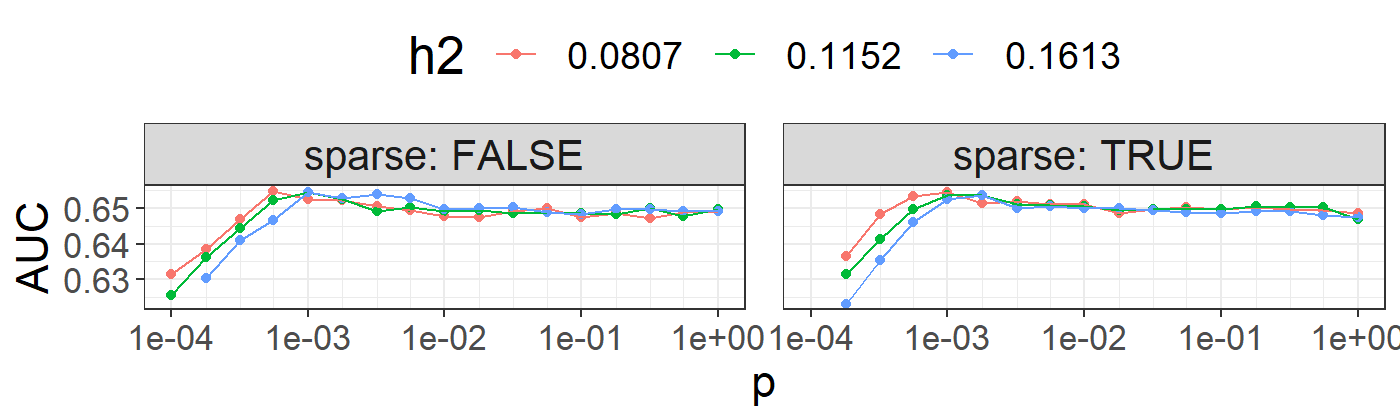
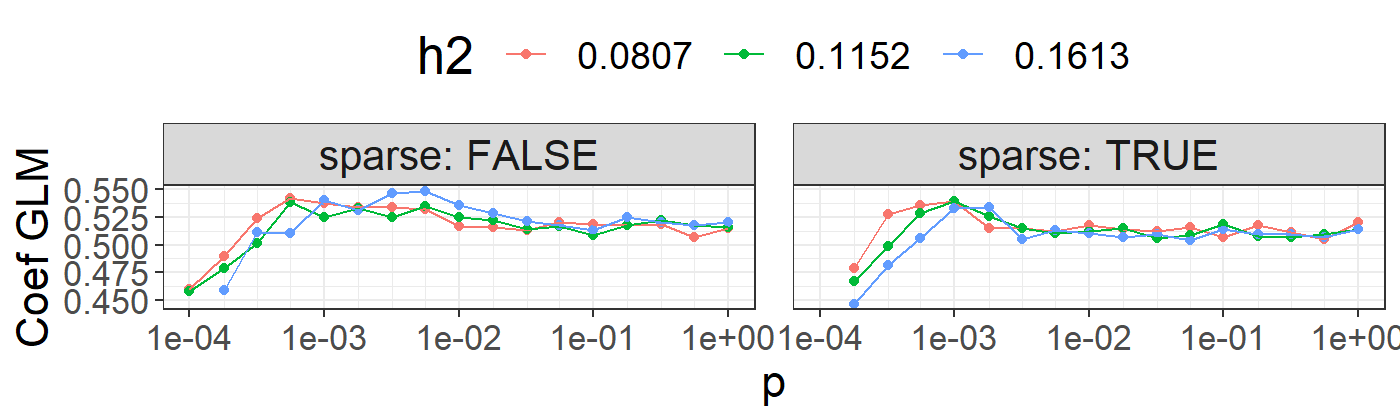
use coef GLM

diff --git a/docs/articles/LDpred2.html b/docs/articles/LDpred2.html
@@ -334,54 +334,59 @@
 <div class="sourceCode" id="cb32"><html><body><pre class="r"><span class="co"># takes several minutes if you do not have many cores</span>
 <span class="no">beta_grid</span> <span class="kw">&lt;-</span> <span class="fu"><a href="../reference/LDpred2.html">snp_ldpred2_grid</a></span>(<span class="no">corr</span>, <span class="no">df_beta</span>[<span class="no">ind.chr</span>, ], <span class="no">params</span>, <span class="kw">ncores</span> <span class="kw">=</span> <span class="no">NCORES</span>)</pre></body></html></div>
 <div class="sourceCode" id="cb33"><html><body><pre class="r"><span class="no">pred_grid</span> <span class="kw">&lt;-</span> <span class="fu">big_prodMat</span>(<span class="no">G</span>, <span class="no">beta_grid</span>, <span class="kw">ind.col</span> <span class="kw">=</span> <span class="no">ind.chr2</span>)
-<span class="no">params</span>$<span class="no">auc</span> <span class="kw">&lt;-</span> <span class="fu"><a href="https://rdrr.io/r/base/apply.html">apply</a></span>(<span class="no">pred_grid</span>[<span class="no">ind.val</span>, ], <span class="fl">2</span>, <span class="no">AUC</span>, <span class="kw">target</span> <span class="kw">=</span> <span class="no">y</span>[<span class="no">ind.val</span>])</pre></body></html></div>
-<div class="sourceCode" id="cb34"><html><body><pre class="r"><span class="fu"><a href="https://rdrr.io/r/base/library.html">library</a></span>(<span class="no">ggplot2</span>)
-<span class="fu"><a href="https://ggplot2.tidyverse.org/reference/ggplot.html">ggplot</a></span>(<span class="fu"><a href="https://rdrr.io/r/base/subset.html">subset</a></span>(<span class="no">params</span>, <span class="no">auc</span> <span class="kw">&gt;</span> <span class="fl">0.5</span>),
-       <span class="fu"><a href="https://ggplot2.tidyverse.org/reference/aes.html">aes</a></span>(<span class="kw">x</span> <span class="kw">=</span> <span class="no">p</span>, <span class="kw">y</span> <span class="kw">=</span> <span class="no">auc</span>, <span class="kw">color</span> <span class="kw">=</span> <span class="fu"><a href="https://rdrr.io/r/base/factor.html">as.factor</a></span>(<span class="no">h2</span>))) +
+<span class="no">params</span>$<span class="no">mad</span> <span class="kw">&lt;-</span> <span class="fu"><a href="https://rdrr.io/r/base/apply.html">apply</a></span>(<span class="no">pred_grid</span>[<span class="no">ind.val</span>, ], <span class="fl">2</span>, <span class="no">mad</span>)
+<span class="no">params</span>$<span class="no">coef</span> <span class="kw">&lt;-</span> <span class="fu"><a href="https://rdrr.io/r/base/apply.html">apply</a></span>(<span class="no">pred_grid</span>[<span class="no">ind.val</span>, ], <span class="fl">2</span>, <span class="kw">function</span>(<span class="no">x</span>) {
+  <span class="fu"><a href="https://rdrr.io/r/stats/glm.html">glm</a></span>(<span class="no">y</span>[<span class="no">ind.val</span>] ~ <span class="no">x</span>, <span class="kw">family</span> <span class="kw">=</span> <span class="st">"binomial"</span>)$<span class="no">coef</span>[<span class="fl">2</span>]
+})
+<span class="no">params</span>$<span class="no">auc_val</span>  <span class="kw">&lt;-</span> <span class="fu"><a href="https://rdrr.io/r/base/apply.html">apply</a></span>(<span class="no">pred_grid</span>[<span class="no">ind.val</span>, ],  <span class="fl">2</span>, <span class="no">AUC</span>, <span class="kw">target</span> <span class="kw">=</span> <span class="no">y</span>[<span class="no">ind.val</span>])
+<span class="no">params</span>$<span class="no">auc_test</span> <span class="kw">&lt;-</span> <span class="fu"><a href="https://rdrr.io/r/base/apply.html">apply</a></span>(<span class="no">pred_grid</span>[<span class="no">ind.test</span>, ], <span class="fl">2</span>, <span class="no">AUC</span>, <span class="kw">target</span> <span class="kw">=</span> <span class="no">y</span>[<span class="no">ind.test</span>])</pre></body></html></div>
+<div class="sourceCode" id="cb34"><html><body><pre class="r"><span class="fu"><a href="https://rdrr.io/r/base/library.html">library</a></span>(<span class="no">ggplot2</span>)</pre></body></html></div>
+<pre><code>## Warning: package 'ggplot2' was built under R version 3.6.3</code></pre>
+<div class="sourceCode" id="cb36"><html><body><pre class="r"><span class="fu"><a href="https://ggplot2.tidyverse.org/reference/ggplot.html">ggplot</a></span>(<span class="no">params</span>, <span class="fu"><a href="https://ggplot2.tidyverse.org/reference/aes.html">aes</a></span>(<span class="kw">x</span> <span class="kw">=</span> <span class="no">p</span>, <span class="kw">y</span> <span class="kw">=</span> <span class="no">coef</span> * <span class="no">mad</span>, <span class="kw">color</span> <span class="kw">=</span> <span class="fu"><a href="https://rdrr.io/r/base/factor.html">as.factor</a></span>(<span class="no">h2</span>))) +
   <span class="fu">theme_bigstatsr</span>() +
   <span class="fu"><a href="https://ggplot2.tidyverse.org/reference/geom_point.html">geom_point</a></span>() +
   <span class="fu"><a href="https://ggplot2.tidyverse.org/reference/geom_path.html">geom_line</a></span>() +
   <span class="fu"><a href="https://ggplot2.tidyverse.org/reference/scale_continuous.html">scale_x_log10</a></span>(<span class="kw">breaks</span> <span class="kw">=</span> <span class="fl">10</span>^(-<span class="fl">5</span>:<span class="fl">0</span>), <span class="kw">minor_breaks</span> <span class="kw">=</span> <span class="no">params</span>$<span class="no">p</span>) +
   <span class="fu"><a href="https://ggplot2.tidyverse.org/reference/facet_wrap.html">facet_wrap</a></span>(~ <span class="no">sparse</span>, <span class="kw">labeller</span> <span class="kw">=</span> <span class="no">label_both</span>) +
-  <span class="fu"><a href="https://ggplot2.tidyverse.org/reference/labs.html">labs</a></span>(<span class="kw">y</span> <span class="kw">=</span> <span class="st">"AUC"</span>, <span class="kw">color</span> <span class="kw">=</span> <span class="st">"h2"</span>) +
+  <span class="fu"><a href="https://ggplot2.tidyverse.org/reference/labs.html">labs</a></span>(<span class="kw">y</span> <span class="kw">=</span> <span class="st">"Coef GLM"</span>, <span class="kw">color</span> <span class="kw">=</span> <span class="st">"h2"</span>) +
   <span class="fu"><a href="https://ggplot2.tidyverse.org/reference/theme.html">theme</a></span>(<span class="kw">legend.position</span> <span class="kw">=</span> <span class="st">"top"</span>, <span class="kw">panel.spacing</span> <span class="kw">=</span> <span class="fu"><a href="https://ggplot2.tidyverse.org/reference/reexports.html">unit</a></span>(<span class="fl">1</span>, <span class="st">"lines"</span>))</pre></body></html></div>
+<pre><code>## Warning: Removed 4 rows containing missing values (geom_point).</code></pre>
+<pre><code>## Warning: Removed 1 row(s) containing missing values (geom_path).</code></pre>
 <p><img src="LDpred2_files/figure-html/unnamed-chunk-16-1.png" width="90%" style="display: block; margin: auto;"></p>
-<div class="sourceCode" id="cb35"><html><body><pre class="r"><span class="fu"><a href="https://rdrr.io/r/base/library.html">library</a></span>(<span class="no">dplyr</span>)
+<div class="sourceCode" id="cb39"><html><body><pre class="r"><span class="fu"><a href="https://rdrr.io/r/base/library.html">library</a></span>(<span class="no">dplyr</span>)
 <span class="no">params</span> <span class="kw">%&gt;%</span>
   <span class="fu"><a href="https://dplyr.tidyverse.org/reference/mutate.html">mutate</a></span>(<span class="kw">sparsity</span> <span class="kw">=</span> <span class="fu"><a href="https://rdrr.io/r/base/colSums.html">colMeans</a></span>(<span class="no">beta_grid</span> <span class="kw">==</span> <span class="fl">0</span>), <span class="kw">id</span> <span class="kw">=</span> <span class="fu"><a href="https://dplyr.tidyverse.org/reference/ranking.html">row_number</a></span>()) <span class="kw">%&gt;%</span>
-  <span class="fu"><a href="https://dplyr.tidyverse.org/reference/arrange.html">arrange</a></span>(<span class="fu"><a href="https://dplyr.tidyverse.org/reference/desc.html">desc</a></span>(<span class="no">auc</span>)) <span class="kw">%&gt;%</span>
-  <span class="fu"><a href="https://dplyr.tidyverse.org/reference/mutate_all.html">mutate_at</a></span>(<span class="fl">4</span>:<span class="fl">5</span>, <span class="no">round</span>, <span class="kw">digits</span> <span class="kw">=</span> <span class="fl">3</span>) <span class="kw">%&gt;%</span>
+  <span class="fu"><a href="https://dplyr.tidyverse.org/reference/arrange.html">arrange</a></span>(<span class="fu"><a href="https://dplyr.tidyverse.org/reference/desc.html">desc</a></span>(<span class="no">coef</span> * <span class="no">mad</span>)) <span class="kw">%&gt;%</span>
+  <span class="fu"><a href="https://dplyr.tidyverse.org/reference/mutate_all.html">mutate_at</a></span>(<span class="fl">4</span>:<span class="fl">8</span>, <span class="no">signif</span>, <span class="kw">digits</span> <span class="kw">=</span> <span class="fl">3</span>) <span class="kw">%&gt;%</span>
   <span class="fu"><a href="https://dplyr.tidyverse.org/reference/slice.html">slice</a></span>(<span class="fl">1</span>:<span class="fl">10</span>)</pre></body></html></div>
-<pre><code>##          p     h2 sparse   auc sparsity id
-## 1  0.00056 0.0807  FALSE 0.655    0.000  4
-## 2  0.00100 0.1152  FALSE 0.654    0.000 22
-## 3  0.00100 0.1613  FALSE 0.654    0.000 39
-## 4  0.00100 0.0807   TRUE 0.654    0.622 56
-## 5  0.00320 0.1613  FALSE 0.654    0.000 41
-## 6  0.00180 0.1613   TRUE 0.654    0.599 91
-## 7  0.00100 0.1152   TRUE 0.654    0.624 73
-## 8  0.00180 0.1152   TRUE 0.653    0.604 74
-## 9  0.00056 0.0807   TRUE 0.653    0.654 55
-## 10 0.00560 0.1613  FALSE 0.653    0.000 42</code></pre>
-<p>You can then choose the best one according to your preferred criterion (e.g. max AUC) and evaluate it in the test set.</p>
-<div class="sourceCode" id="cb37"><html><body><pre class="r"><span class="no">best_grid_nosp</span> <span class="kw">&lt;-</span> <span class="no">params</span> <span class="kw">%&gt;%</span>
+<pre><code>##          p     h2 sparse   mad coef auc_val auc_test sparsity id
+## 1  0.00560 0.1613  FALSE 0.329 1.67   0.653    0.667    0.000 42
+## 2  0.00320 0.1613  FALSE 0.328 1.66   0.654    0.669    0.000 41
+## 3  0.00056 0.0807  FALSE 0.167 3.25   0.655    0.667    0.000  4
+## 4  0.00100 0.1613  FALSE 0.321 1.68   0.654    0.667    0.000 39
+## 5  0.00100 0.0807   TRUE 0.144 3.75   0.654    0.674    0.622 56
+## 6  0.00100 0.1152   TRUE 0.209 2.58   0.654    0.672    0.624 73
+## 7  0.00056 0.1152  FALSE 0.232 2.32   0.652    0.667    0.000 21
+## 8  0.00100 0.0807  FALSE 0.166 3.23   0.652    0.671    0.000  5
+## 9  0.01000 0.1613  FALSE 0.326 1.64   0.650    0.665    0.000 43
+## 10 0.00056 0.0807   TRUE 0.147 3.63   0.653    0.669    0.654 55</code></pre>
+<p>You can then choose the best model according to your preferred criterion (e.g. max AUC) and evaluate this particular model in the test set afterwards. Here, we use the (scaled) coefficient from the regression of the phenotype by the PRS since we have found it more robust than using the AUC. We also scale the effect sizes by this coefficient.</p>
+<div class="sourceCode" id="cb41"><html><body><pre class="r"><span class="no">best_grid_nosp</span> <span class="kw">&lt;-</span> <span class="no">params</span> <span class="kw">%&gt;%</span>
   <span class="fu"><a href="https://dplyr.tidyverse.org/reference/mutate.html">mutate</a></span>(<span class="kw">id</span> <span class="kw">=</span> <span class="fu"><a href="https://dplyr.tidyverse.org/reference/ranking.html">row_number</a></span>()) <span class="kw">%&gt;%</span>
   <span class="fu"><a href="https://dplyr.tidyverse.org/reference/filter.html">filter</a></span>(!<span class="no">sparse</span>) <span class="kw">%&gt;%</span>
-  <span class="fu"><a href="https://dplyr.tidyverse.org/reference/arrange.html">arrange</a></span>(<span class="fu"><a href="https://dplyr.tidyverse.org/reference/desc.html">desc</a></span>(<span class="no">auc</span>)) <span class="kw">%&gt;%</span>
+  <span class="fu"><a href="https://dplyr.tidyverse.org/reference/arrange.html">arrange</a></span>(<span class="fu"><a href="https://dplyr.tidyverse.org/reference/desc.html">desc</a></span>(<span class="no">coef</span> * <span class="no">mad</span>)) <span class="kw">%&gt;%</span>
   <span class="fu"><a href="https://dplyr.tidyverse.org/reference/slice.html">slice</a></span>(<span class="fl">1</span>) <span class="kw">%&gt;%</span>
-  <span class="fu"><a href="https://dplyr.tidyverse.org/reference/pull.html">pull</a></span>(<span class="no">id</span>) <span class="kw">%&gt;%</span>
-  <span class="no">beta_grid</span>[, <span class="no">.</span>]
+  { <span class="no">beta_grid</span>[, <span class="no">.</span>$<span class="no">id</span>] * <span class="no">.</span>$<span class="no">coef</span> }
 
 <span class="fu">AUC</span>(<span class="fu">big_prodVec</span>(<span class="no">G</span>, <span class="no">best_grid_nosp</span>, <span class="kw">ind.row</span> <span class="kw">=</span> <span class="no">ind.test</span>, <span class="kw">ind.col</span> <span class="kw">=</span> <span class="no">ind.chr2</span>),
     <span class="no">y</span>[<span class="no">ind.test</span>])</pre></body></html></div>
-<pre><code>## [1] 0.6667949</code></pre>
-<div class="sourceCode" id="cb39"><html><body><pre class="r"><span class="no">best_grid_sp</span> <span class="kw">&lt;-</span> <span class="no">params</span> <span class="kw">%&gt;%</span>
+<pre><code>## [1] 0.6669873</code></pre>
+<div class="sourceCode" id="cb43"><html><body><pre class="r"><span class="no">best_grid_sp</span> <span class="kw">&lt;-</span> <span class="no">params</span> <span class="kw">%&gt;%</span>
   <span class="fu"><a href="https://dplyr.tidyverse.org/reference/mutate.html">mutate</a></span>(<span class="kw">id</span> <span class="kw">=</span> <span class="fu"><a href="https://dplyr.tidyverse.org/reference/ranking.html">row_number</a></span>()) <span class="kw">%&gt;%</span>
   <span class="fu"><a href="https://dplyr.tidyverse.org/reference/filter.html">filter</a></span>(<span class="no">sparse</span>) <span class="kw">%&gt;%</span>
-  <span class="fu"><a href="https://dplyr.tidyverse.org/reference/arrange.html">arrange</a></span>(<span class="fu"><a href="https://dplyr.tidyverse.org/reference/desc.html">desc</a></span>(<span class="no">auc</span>)) <span class="kw">%&gt;%</span>
+  <span class="fu"><a href="https://dplyr.tidyverse.org/reference/arrange.html">arrange</a></span>(<span class="fu"><a href="https://dplyr.tidyverse.org/reference/desc.html">desc</a></span>(<span class="no">coef</span> * <span class="no">mad</span>)) <span class="kw">%&gt;%</span>
   <span class="fu"><a href="https://dplyr.tidyverse.org/reference/slice.html">slice</a></span>(<span class="fl">1</span>) <span class="kw">%&gt;%</span>
-  <span class="fu"><a href="https://dplyr.tidyverse.org/reference/pull.html">pull</a></span>(<span class="no">id</span>) <span class="kw">%&gt;%</span>
-  <span class="no">beta_grid</span>[, <span class="no">.</span>]
+  { <span class="no">beta_grid</span>[, <span class="no">.</span>$<span class="no">id</span>] * <span class="no">.</span>$<span class="no">coef</span> }
 
 <span class="fu">AUC</span>(<span class="fu">big_prodVec</span>(<span class="no">G</span>, <span class="no">best_grid_sp</span>, <span class="kw">ind.row</span> <span class="kw">=</span> <span class="no">ind.test</span>, <span class="kw">ind.col</span> <span class="kw">=</span> <span class="no">ind.chr2</span>),
     <span class="no">y</span>[<span class="no">ind.test</span>])</pre></body></html></div>
@@ -390,7 +395,7 @@
 <div id="automatic-model" class="section level3">
 <h3 class="hasAnchor">
 <a href="#automatic-model" class="anchor"></a>Automatic model</h3>
-<div class="sourceCode" id="cb41"><html><body><pre class="r"><span class="co"># takes a few minutes</span>
+<div class="sourceCode" id="cb45"><html><body><pre class="r"><span class="co"># takes a few minutes</span>
 <span class="no">auto</span> <span class="kw">&lt;-</span> <span class="fu"><a href="../reference/LDpred2.html">snp_ldpred2_auto</a></span>(<span class="no">corr</span>, <span class="no">df_beta</span>[<span class="no">ind.chr</span>, ], <span class="kw">h2_init</span> <span class="kw">=</span> <span class="no">h2_est</span>)
 <span class="fu"><a href="https://rdrr.io/r/utils/str.html">str</a></span>(<span class="no">auto</span>)</pre></body></html></div>
 <pre><code>## List of 5
@@ -400,7 +405,7 @@
 ##  $ path_p_est : num [1:2000] 0.1001 0.1016 0.0992 0.0988 0.0965 ...
 ##  $ path_h2_est: num [1:2000] 0.00135 0.00128 0.00125 0.00121 0.00119 ...</code></pre>
 <p>You should verify if the algorithm “converged”. This is not the case here, which is probably because the data is so small.</p>
-<div class="sourceCode" id="cb43"><html><body><pre class="r"><span class="fu">plot_grid</span>(
+<div class="sourceCode" id="cb47"><html><body><pre class="r"><span class="fu">plot_grid</span>(
   <span class="fu"><a href="https://ggplot2.tidyverse.org/reference/qplot.html">qplot</a></span>(<span class="kw">y</span> <span class="kw">=</span> <span class="no">auto</span>$<span class="no">path_p_est</span>) +
     <span class="fu">theme_bigstatsr</span>() +
     <span class="fu"><a href="https://ggplot2.tidyverse.org/reference/geom_abline.html">geom_hline</a></span>(<span class="kw">yintercept</span> <span class="kw">=</span> <span class="no">auto</span>$<span class="no">p_est</span>, <span class="kw">col</span> <span class="kw">=</span> <span class="st">"blue"</span>) +
@@ -413,8 +418,11 @@
   <span class="kw">ncol</span> <span class="kw">=</span> <span class="fl">1</span>, <span class="kw">align</span> <span class="kw">=</span> <span class="st">"hv"</span>
 )</pre></body></html></div>
 <p><img src="LDpred2_files/figure-html/unnamed-chunk-21-1.png" width="700" style="display: block; margin: auto;"></p>
-<div class="sourceCode" id="cb44"><html><body><pre class="r"><span class="no">beta_auto</span> <span class="kw">&lt;-</span> <span class="no">auto</span>$<span class="no">beta_est</span>
+<div class="sourceCode" id="cb48"><html><body><pre class="r"><span class="no">beta_auto</span> <span class="kw">&lt;-</span> <span class="no">auto</span>$<span class="no">beta_est</span>
 <span class="no">pred_auto</span> <span class="kw">&lt;-</span> <span class="fu">big_prodVec</span>(<span class="no">G</span>, <span class="no">beta_auto</span>, <span class="kw">ind.row</span> <span class="kw">=</span> <span class="no">ind.test</span>, <span class="kw">ind.col</span> <span class="kw">=</span> <span class="no">ind.chr2</span>)
+<span class="co"># Make sure it is on some appropriate scaling (the same as LDpred2-inf)</span>
+<span class="co"># to safely merge predictions from multiple chromosomes</span>
+<span class="no">pred_auto</span> <span class="kw">&lt;-</span> <span class="no">pred_auto</span> * <span class="fu"><a href="https://rdrr.io/r/stats/mad.html">mad</a></span>(<span class="no">pred_inf</span>) / <span class="fu"><a href="https://rdrr.io/r/stats/mad.html">mad</a></span>(<span class="no">pred_auto</span>)
 <span class="fu">AUC</span>(<span class="no">pred_auto</span>, <span class="no">y</span>[<span class="no">ind.test</span>])</pre></body></html></div>
 <pre><code>## [1] 0.6631397</code></pre>
 </div>
